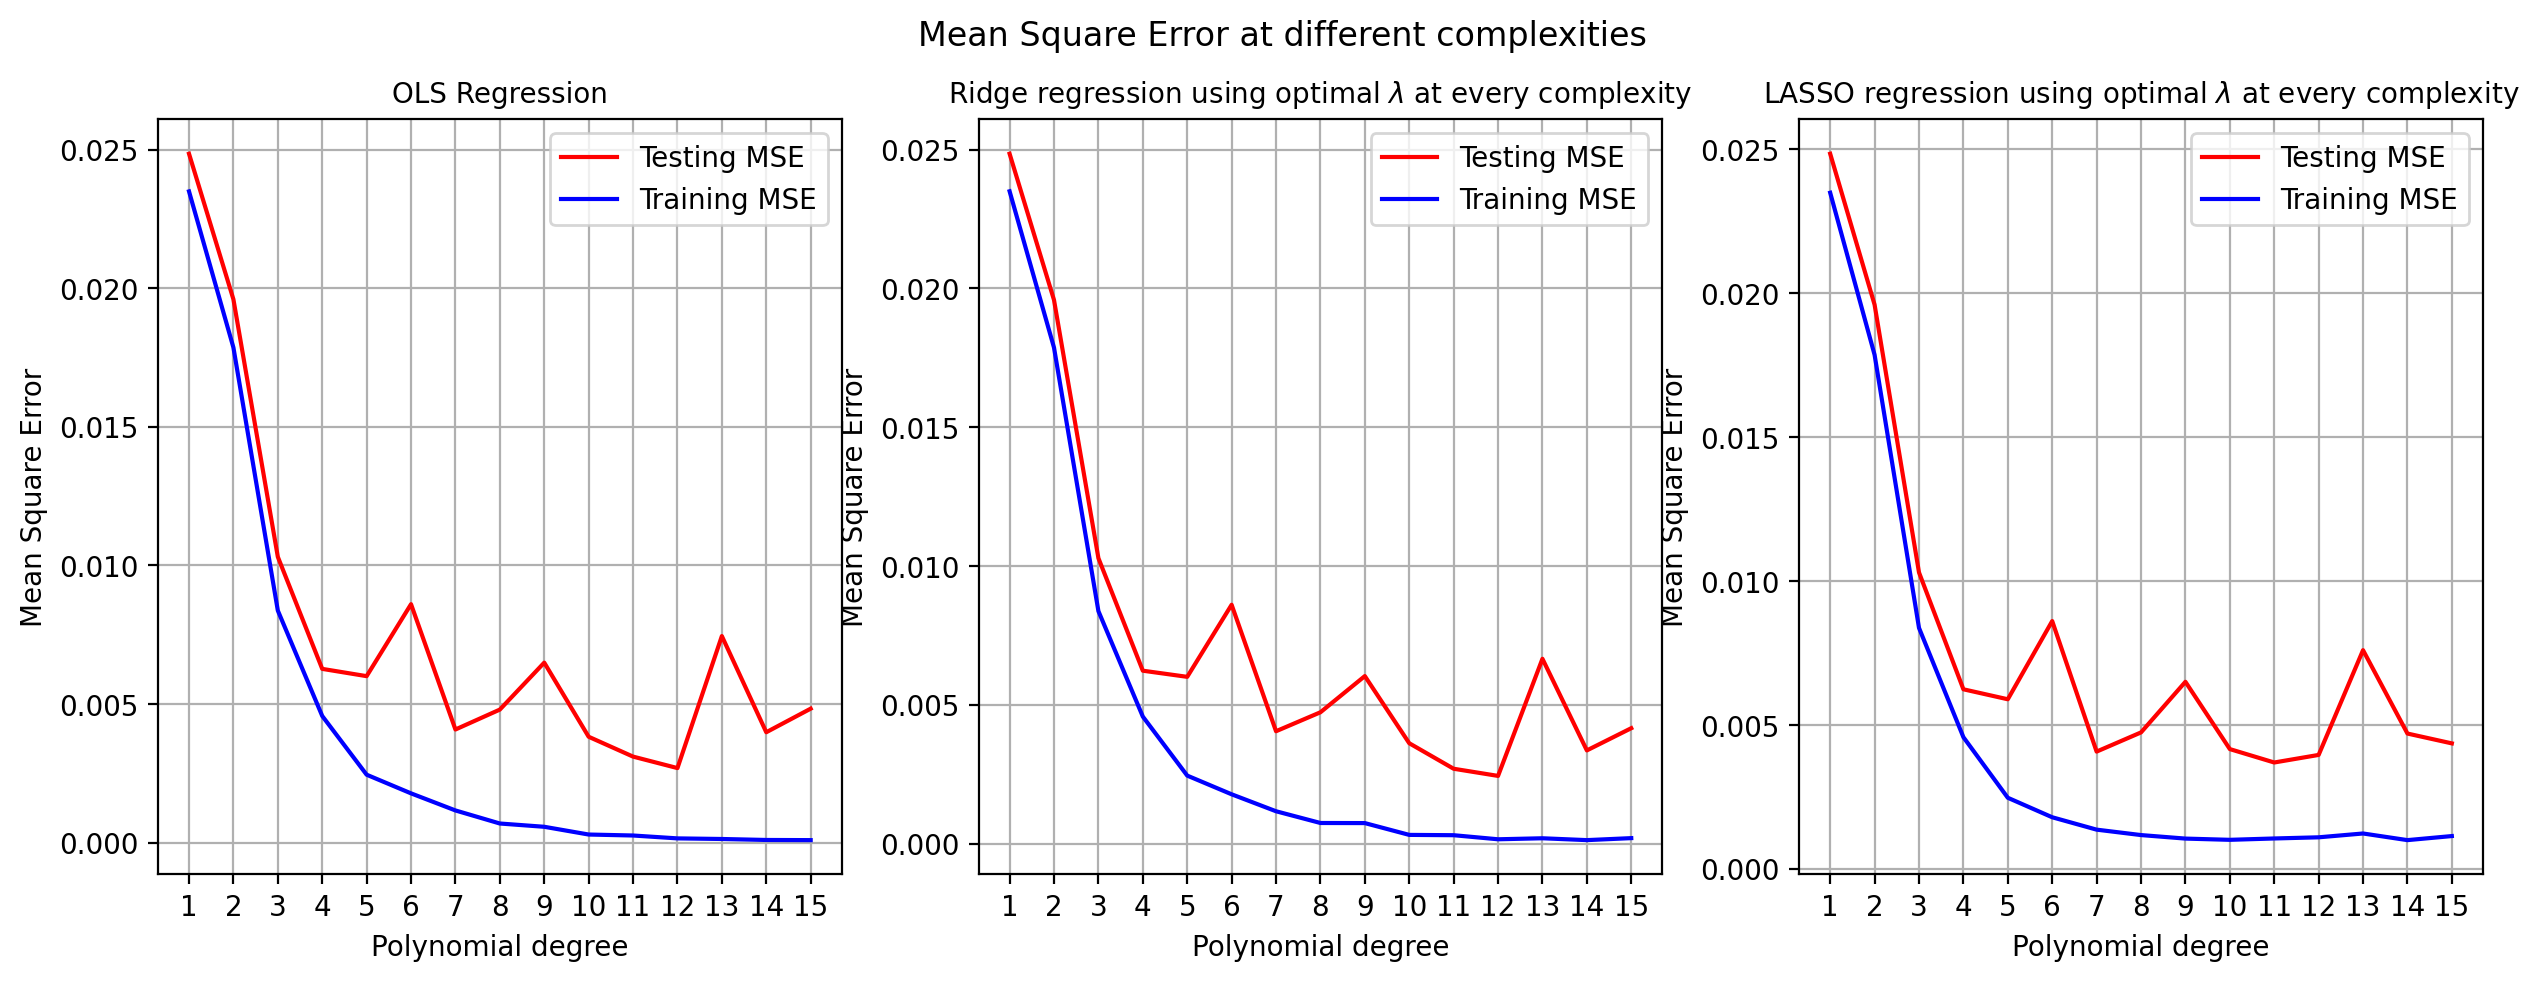
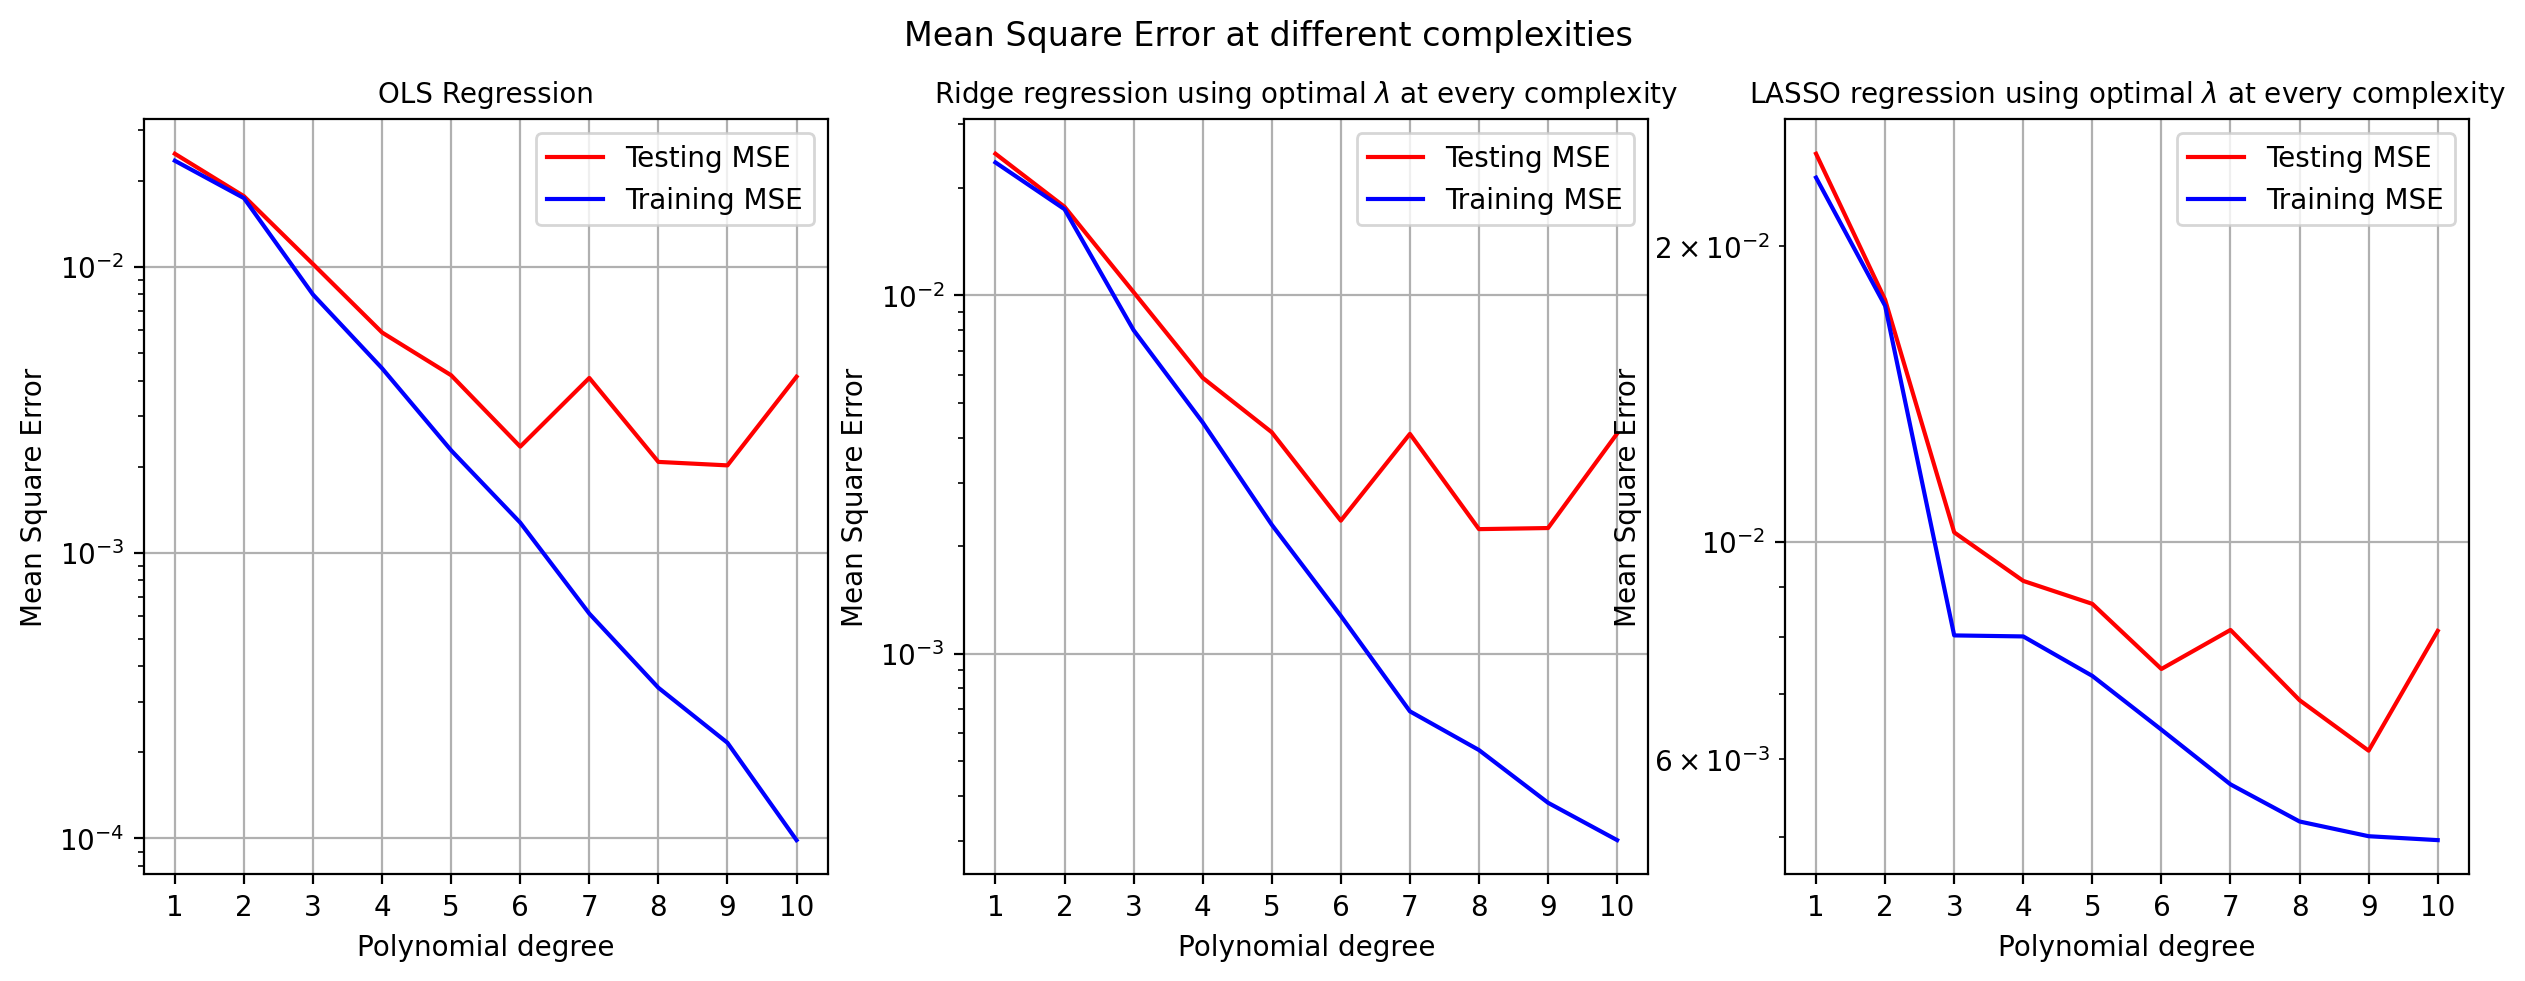
pushing the changes done to complete task g

Changed region(s): [[0.0, 0.0, 0.9885, 0.9786], [0.8958, 0.1529, 0.9576, 0.2141]]

diff --git a/op_task_f.py b/op_task_f.py
@@ -25,7 +25,7 @@ np.random.seed(1) #set seed for easier troubleshooting
 
 
 
-def crossvalidation(x, y, z, mindeg=1, maxdeg=15, interval=1, k=10, a=-6, b=1):
+def crossvalidation(x, y, z, mindeg=1, maxdeg=10, interval=1, k=10, a=-6, b=1):
     #Do k-fold cross validation to find the optimal complexity for the model
     #For each complexity, when using Ridge & LASSO regression, the optimal lambda must be found
 
@@ -149,7 +149,8 @@ def crossvalidation(x, y, z, mindeg=1, maxdeg=15, interval=1, k=10, a=-6, b=1):
     fig1 = plt.figure(figsize=(15,5), dpi=200)
     ax1 = fig1.subplots(1,3)
     fig1.suptitle('Mean Square Error at different complexities')
-    for i in range(3):    
+    for i in range(3):   
+        ax1[i].set_yscale('log')
         ax1[i].plot(deg, error_test[:, i], label='Testing MSE', color='red')
         ax1[i].plot(deg, error_train[:, i], label='Training MSE', color='blue')
         ax1[i].set_xlabel('Polynomial degree')
@@ -166,7 +167,138 @@ def crossvalidation(x, y, z, mindeg=1, maxdeg=15, interval=1, k=10, a=-6, b=1):
     plt.yscale('log')
     plt.plot(deg, avg_lmbda_Ridge, label='Optimal $\lambda$ value (Ridge)', linestyle='dashed', color='black')
     plt.plot(deg, avg_lmbda_Lasso, label='Optimal $\lambda$ value (LASSO)', linestyle='dashdot', color='black')
-    plt.axvline(5, linestyle='dashed', color='grey', label='Degree 5')
+    plt.xlabel('Polynomial degree')
+    plt.ylabel('Geometric mean of $\lambda$')
+    plt.xticks(deg)
+    plt.yticks(alpha_array)
+    plt.ylim(10**(a-1/2), 10**(b+1/2))
+    plt.title('Geometric mean of optimal $\lambda$ for each complexity')
+    plt.grid()
+    plt.legend()
+    plt.show()
+
+
+
+def crossvalidation_NoLasso(x, y, z, mindeg=1, maxdeg=10, interval=1, k=10, a=-6, b=1):
+    #Do k-fold cross validation to find the optimal complexity for the model
+    #For each complexity, when using Ridge regression, the optimal lambda must be found
+
+    x_flat = x.flatten()
+    y_flat = y.flatten()
+    z_flat = z.flatten()
+
+    X = np.vstack((x_flat,y_flat)).T
+    # Note: X[:,0] = x_flat  X[:,1] = y_flat
+    
+    deg = np.arange(mindeg, maxdeg+interval, interval)
+    
+    #to use GridSearchCV you need a dictionary with parameters
+    #appearantly lambda is called alpha in the scikit learn methods
+    #according to the documentation the dictionary needs a list and not an array
+    alpha_array = np.logspace(a, b, (b-a)+1)
+    alpha_list = alpha_array.tolist()
+    parameters = {'alpha': alpha_list}
+    
+    error_test    = np.zeros( (len(deg),2) )
+    error_train    = np.zeros( (len(deg),2) )
+    
+    lmbda_array_Ridge = np.zeros( (len(deg),k) )
+    lmbda_array_Lasso = np.zeros( (len(deg),k) )
+    
+    mse_pred_OLS    = np.zeros(k)
+    mse_tilde_OLS   = np.zeros(k)
+    mse_pred_Ridge  = np.zeros(k)
+    mse_tilde_Ridge = np.zeros(k)
+    mse_pred_Lasso  = np.zeros(k)
+    mse_tilde_Lasso = np.zeros(k)
+    
+    
+    for i in tqdm( range(len(deg)) ):
+        #random_state=1 is for reproducibility, remove the keyword for random 
+        #shuffle each time.
+        kf = KFold(n_splits=k, shuffle=True)
+    
+    
+        for j, (train, test) in enumerate(kf.split(X)):
+            #make the testing and training data from k-fold
+            X_train, X_test, z_train, z_test = X[train], X[test], z_flat[train], z_flat[test]
+            
+            stdsc_z = StandardScaler()
+            z_train = stdsc_z.fit_transform( z_train.reshape(-1,1) )
+            z_test  = stdsc_z.fit_transform( z_test.reshape(-1,1)  )
+            
+            #Make the design matrices
+            Phi_train = Design_Matrix_2D(deg[i], X_train)
+            Phi_test = Design_Matrix_2D(deg[i], X_test)
+            
+            #scale the design matrices
+            stdsc = StandardScaler() # For x- and y-vals
+            Phi_train = stdsc.fit_transform(Phi_train)
+            Phi_test = stdsc.transform(Phi_test)
+            
+            
+            #calculate the model using the OLS method
+            OLSbeta = np.linalg.pinv(Phi_train.T @ Phi_train) @ Phi_train.T @ z_train
+            
+            #calculate the optimal lambda value using scikit-learn GridSearchCV
+            modelRidge = Ridge(fit_intercept=False)
+            searchRidge = GridSearchCV(modelRidge, parameters, scoring='neg_mean_squared_error', cv=kf)
+            searchRidge.fit(Phi_train, z_train)
+            lmbda_array_Ridge[i,j] = searchRidge.best_params_['alpha']
+            avg_lmbda_Ridge = sp.stats.mstats.gmean(lmbda_array_Ridge, axis=1)
+            
+            #calculate the model using the Ridge method
+            I = np.eye( np.shape(Phi_train)[1] )
+            Ridgebeta = np.linalg.pinv( Phi_train.T @ Phi_train + lmbda_array_Ridge[i,j]*I ) @Phi_train.T @ z_train
+            
+            
+            z_train = stdsc_z.inverse_transform(z_train)
+            z_test = stdsc_z.inverse_transform(z_test)
+            
+            #rescale the prediction & model
+            z_pred_OLS    = stdsc_z.inverse_transform( (Phi_test @ OLSbeta).reshape(-1,1)    )
+            z_tilde_OLS   = stdsc_z.inverse_transform( (Phi_train @ OLSbeta).reshape(-1,1)   )
+            z_pred_Ridge  = stdsc_z.inverse_transform( (Phi_test @ Ridgebeta).reshape(-1,1)  )
+            z_tilde_Ridge = stdsc_z.inverse_transform( (Phi_train @ Ridgebeta).reshape(-1,1) )
+
+
+            mse_pred_OLS[j]    = np.mean( (z_test - z_pred_OLS)**2     )
+            mse_tilde_OLS[j]   = np.mean( (z_train - z_tilde_OLS)**2   )
+            mse_pred_Ridge[j]  = np.mean( (z_test - z_pred_Ridge)**2   )
+            mse_tilde_Ridge[j] = np.mean( (z_train - z_tilde_Ridge)**2 )
+            
+            
+        
+        error_test[i, 0]  = np.mean( mse_pred_OLS    )
+        error_test[i, 1]  = np.mean( mse_pred_Ridge  )
+        error_train[i, 0] = np.mean( mse_tilde_OLS   )
+        error_train[i, 1] = np.mean( mse_tilde_Ridge )
+        
+        
+        
+    title_list = ['OLS Regression', 
+                  'Ridge regression using optimal $\lambda$ at every complexity']
+        
+    fig1 = plt.figure(figsize=(15,5), dpi=200)
+    ax1 = fig1.subplots(1,2)
+    fig1.suptitle('Mean Square Error at different complexities')
+    for i in range(2):   
+        ax1[i].set_yscale('log')
+        ax1[i].plot(deg, error_test[:, i], label='Testing MSE', color='red')
+        ax1[i].plot(deg, error_train[:, i], label='Training MSE', color='blue')
+        ax1[i].set_xlabel('Polynomial degree')
+        ax1[i].set_ylabel('Mean Square Error')
+        ax1[i].set_xticks(deg)
+        ax1[i].set_title(title_list[i], fontsize=10)
+        ax1[i].legend()
+        ax1[i].grid()
+        
+    plt.show()
+    
+    
+    plt.figure(dpi=200)
+    plt.yscale('log')
+    plt.plot(deg, avg_lmbda_Ridge, label='Optimal $\lambda$ value (Ridge)', linestyle='dashed', color='black')
     plt.xlabel('Polynomial degree')
     plt.ylabel('Geometric mean of $\lambda$')
     plt.xticks(deg)

diff --git a/task_g.py b/task_g.py
@@ -15,8 +15,7 @@ from random import random, seed
 from scipy.ndimage import gaussian_filter
 
 from bg_taskabc import MSE, R2, Design_Matrix_2D, regression
-from op_task_e import bootstrap_num, bootstrap_comp
-from op_task_f import crossvalidation
+from op_task_f import crossvalidation, crossvalidation_NoLasso
 
 
 def filter_dtm(data, threshold=0, sigma=1):
@@ -86,7 +85,7 @@ surf = imread('Surfaces/Lausanne.tif')
 
 # ---------- Slice the terrain model ---------------
 row_start = 1000 # Start of rows 
-row_end =   1003 # End of rows 
+row_end =   1250 # End of rows 
 
 col_start = row_start   # Start of rows 
 col_end   = row_end       # End of rows 
@@ -115,17 +114,14 @@ deg_own = [40,45,50,55,60] # if want to construct own poly. list
 
 
 print('Regression function is running.')
-regression(x,y,z, deg_max, bool_info=True)
-#regression(x,y,z,deg_own,bool_info=True)
+#regression(x,y,z, deg_max, bool_info=True)
+regression(x,y,z,deg_own,bool_info=True)
 
-
-print('Bootstrap for number of points is running.')
-bootstrap_num('Surfaces/Lausanne.tif', use_real_data=True, special_deg=deg_max, min_n=20+1, max_n=2020+1, interval=400)
-
-#start with a low number of bootstraps because of computation time and then MAYBE increase if it's fine
-print('Bootstrap for complexity is running.')
-bootstrap_comp(x, y, z, n_bootstraps=20, mindeg=5, maxdeg=30, interval=5)
 
 #can do k=5 since the amount of points is so large
-print('K-fold for complexity is running.')
-crossvalidation(x, y, z, mindeg=5, maxdeg=30, interval=5, k=5, a=-6, b=0)
+#print('K-fold WITH LASSO is running.')
+#crossvalidation(x, y, z, mindeg=deg_own[0], maxdeg=deg_own[-1], interval=5, k=5, a=-8, b=-4)
+
+#can do k=5 since the amount of points is so large
+print('K-fold WITHOUT LASSO is running.')
+crossvalidation_NoLasso(x, y, z, mindeg=deg_own[0], maxdeg=deg_own[-1], interval=5, k=5, a=-8, b=-4)

diff --git a/README.md b/README.md
@@ -2,8 +2,12 @@
 
 ## Overview
 - bg_taskabc.py  :   OLS, Ridge, Lasso regression on **Franke's Function**   
-- task_g.py      :   OLS, Ridge, Lasso regression on **real topografic data** from Lausanne (dataset: `Lausanne.tif`)
-  
+- op_task_e.py   :   Bootstrap resampling analysis for number of points and complexity on **Franke's Function** with bias variance trade-off
+- op_task_f.py   :   K-fold cross validation resampling analysis for complexity on **Franke's Function**.
+- task_g.py      :   OLS, Ridge, Lasso regression on **real topografic data** from Lausanne (dataset: `Lausanne.tif`), then cross validation to validate the optimal complexity of the model
+
+
+
 ## Functions
 ### `Regression-Function` (found in `bg_taskabc.py`)
 - **Input Variables**:
@@ -13,12 +17,53 @@
     - **Note**: To obtain the \( \beta \)-values, set `want_beta = True` (line 437).
 - **Structure**: detailed structure provided in `Project1.tex`.
 
-     
-  Ole Petter: putt in some important functions structure
+### `Bootstrap (number of points)` (found in `op_task_e.py`)
+- **Input Variables**:
+  - `data`: Directory path to topographic data, ex: 'Surfaces/Lausanna.tif'.
+  - `use_real_data`: Boolean value to decide whether to use real data or constructed data.
+  - `n_bootstraps`: Number of times to do bootstrap resampling.
+  - `row_start`: Decide the index for the datapoint (along one axis) where you want to start.
+  - `special_deg`: Specific degree for the model that you want to analyze
+  - `min_n`: Minimum number of datapoints you want to use for the analysis.
+  - `max_n`: Maximum number of datapoints you want to use for the analysis.
+  - `interval`: Decide the interval between the minimum and maximum number of datapoints.
+- **Note**: The function was modified to be able to be used on real data, but it was never used for that purpose because of time constraint.
+
+### `Bootstrap (complexity)` (found in `op_task_e.py`)
+  **Input Variables**:
+  - `x`, `y`, `z`: Positions of the surface.
+  - `n_bootstraps`: Number of times to do bootstrap resampling.
+  - `min_deg`: Minimum degree of complexity you want to use for the analysis.
+  - `max_deg`: Maximum degree of complexity you want to use for the analysis.
+  - `interval`: Decide the interval between the minimum and maximum degree of complexity.
+
+### `Cross Validation` (found in `op_task_f.py`)
+  **Input Variables**:
+  - `x`, `y`, `z`: Positions of the surface.
+  - `min_deg`: Minimum degree of complexity you want to use for the analysis.
+  - `max_deg`: Maximum degree of complexity you want to use for the analysis.
+  - `interval`: Decide the interval between the minimum and maximum degree of complexity.
+  - `k`: Number of folds for the k-fold cross validation scheme
+  - `a`: The smallest tested lambda value is 10^a
+  - `b`: The largest tested lambda value is 10^b
+
+### `Cross Validation without Lasso` (found in `op_task_f.py`)
+  **Input Variables**:
+  - `x`, `y`, `z`: Positions of the surface.
+  - `min_deg`: Minimum degree of complexity you want to use for the analysis.
+  - `max_deg`: Maximum degree of complexity you want to use for the analysis.
+  - `interval`: Decide the interval between the minimum and maximum degree of complexity.
+  - `k`: Number of folds for the k-fold cross validation scheme
+  - `a`: The smallest tested lambda value is 10^a
+  - `b`: The largest tested lambda value is 10^b
+- **Note**: This function was made to test the cross validation function for large complexities since the Lasso part of the function contributed the most to the computation time. There were some issues with convergence.
+
 
 
 
 ## How to Run the Code
 ```bash
 $ nohup python3 bg_taskabc.py > output_test.log 2>&1 &
+$ nohup python3 op_task_e.py > output_boot.log 2>&1 &
+$ nohup python3 op_task_f.py > output_cv.log 2>&1 &
 $ nohup python3 task_g.py > output_real.log 2>&1 &
